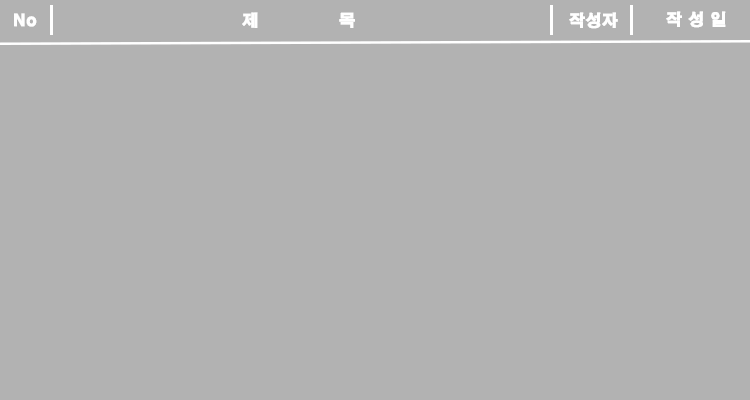
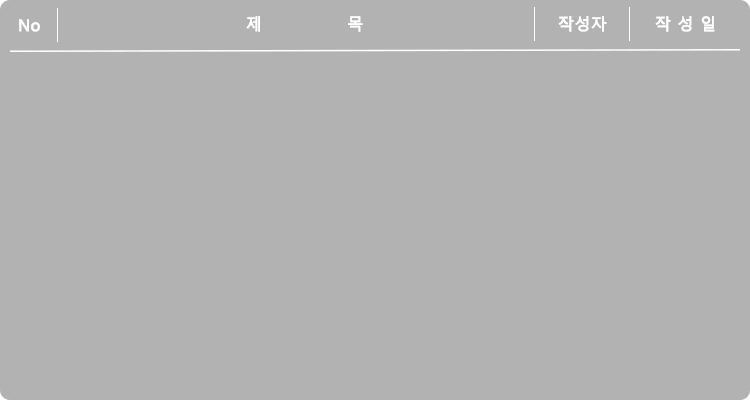
회원 게시판 리스트 이미지 적용

diff --git a/FirstProject-CodeCloud/src/view/membermainview/QAbbsList.java b/FirstProject-CodeCloud/src/view/membermainview/QAbbsList.java
@@ -2,6 +2,7 @@ package view.membermainview;
 
 import java.awt.Color;
 import java.awt.Dimension;
+import java.awt.Font;
 import java.awt.event.ActionEvent;
 import java.awt.event.ActionListener;
 import java.awt.event.MouseEvent;
@@ -68,8 +69,11 @@ public class QAbbsList extends JPanel implements ActionListener, WindowListener,
 		for (int i = 0; i < list.size(); i++) {
 			QAbbsDto dto = list.get(i);
 
+			
 			rowData[i][0] = dto.getSeq();// 번호
-
+			if(dto.getRef()!=0){
+				rowData[i][0]="";
+			}
 
 			if (dto.getDel() == 1)
 				rowData[i][1] = "  *************이 글은 삭제되었습니다*************";
@@ -83,8 +87,9 @@ public class QAbbsList extends JPanel implements ActionListener, WindowListener,
 	
 				if (rowData[i][1].equals(""))
 					rowData[i][1] ="  " + list.get(i).getTitle();
-				else
-					rowData[i][1] += "[답변] " + list.get(i).getTitle();
+				else 
+					rowData[i][1] += "┗ [답변] " + list.get(i).getTitle();
+				
 			}
 
 			rowData[i][2] = dto.getNick();
@@ -141,18 +146,21 @@ public class QAbbsList extends JPanel implements ActionListener, WindowListener,
 		celAlignCenter.setHorizontalAlignment(JLabel.CENTER);
 		celAlignCenter.setOpaque(false);
 		// 컬럼의 넓이 설정
-		jTable.getColumnModel().getColumn(0).setMaxWidth(50);
+		jTable.getColumnModel().getColumn(0).setMaxWidth(53);
 		jTable.getColumnModel().getColumn(0).setCellRenderer(celAlignCenter);
-		jTable.getColumnModel().getColumn(1).setMaxWidth(500);
-		jTable.getColumnModel().getColumn(2).setMaxWidth(80);
+		jTable.getColumnModel().getColumn(1).setMaxWidth(477);
+		jTable.getColumnModel().getColumn(2).setMaxWidth(95);
 		jTable.getColumnModel().getColumn(2).setCellRenderer(celAlignCenter);
-		jTable.getColumnModel().getColumn(3).setMaxWidth(120);
+		jTable.getColumnModel().getColumn(3).setMaxWidth(115);
 		jTable.getColumnModel().getColumn(3).setCellRenderer(celAlignCenter);
 		
 		jTable.setOpaque(false);
 		jTable.setForeground(Color.WHITE);
 		jTable.setTableHeader(null);
 		jTable.setShowGrid(false);
+		jTable.setRowHeight(25);
+		Font tableFont = new Font("맑은고딕", Font.PLAIN, 15);
+		jTable.setFont(tableFont);
 		
 		//스크롤바 0으로 줄여서 안보이게하는 코드
 		jScrPane = new JScrollPane(jTable, ScrollPaneConstants.VERTICAL_SCROLLBAR_ALWAYS, ScrollPaneConstants.HORIZONTAL_SCROLLBAR_NEVER); 
@@ -172,7 +180,7 @@ public class QAbbsList extends JPanel implements ActionListener, WindowListener,
 		bbs_backgorund.setIcon(bbs_back_Img);
 		bbs_backgorund.setBounds(50, 150, 750, 400);
 		///////////////////////////////////////////////////
-		jScrPane.setBounds(50, 196, 750, 354);
+		jScrPane.setBounds(55, 205, 740, 340);
 		
 
 		add(jScrPane);
@@ -219,13 +227,19 @@ public class QAbbsList extends JPanel implements ActionListener, WindowListener,
 	public void setList(List<QAbbsDto> list) {
 		rowData = new Object[list.size()][4];
 
-		int n = 1;
 		for (int i = 0; i < list.size(); i++) {
 			QAbbsDto dto = list.get(i);
-			rowData[i][0] = dto.getSeq();
+
+			
+			rowData[i][0] = dto.getSeq();// 번호
+			if(dto.getRef()!=0){
+				rowData[i][0]="";
+			}
+
 			if (dto.getDel() == 1)
-				rowData[i][1] = "*************이 글은 삭제되었습니다*************";
+				rowData[i][1] = "  *************이 글은 삭제되었습니다*************";
 			else {
+
 				// 댓글 작업 부분
 				rowData[i][1] = "";
 				for (int j = 0; j < list.get(i).getDept(); j++) {
@@ -233,11 +247,13 @@ public class QAbbsList extends JPanel implements ActionListener, WindowListener,
 				}
 	
 				if (rowData[i][1].equals(""))
-					rowData[i][1] = list.get(i).getTitle();
-				else
+					rowData[i][1] ="  " + list.get(i).getTitle();
+				else 
 					rowData[i][1] += "┗ [답변] " + list.get(i).getTitle();
-			}			rowData[i][2] = dto.getNick();
+				
+			}
 
+			rowData[i][2] = dto.getNick();
 
 			Calendar cal = Calendar.getInstance();
 
@@ -257,24 +273,31 @@ public class QAbbsList extends JPanel implements ActionListener, WindowListener,
 				String beforeDate = list.get(i).getWdate().substring(0, 10);
 				rowData[i][3] = beforeDate;
 			}
-
 		}
 		////////////////////////////// table 형태 유지
 		model.setDataVector(rowData, columnNames);
 
-		// 컬럼의 넓이 설정
-		jTable.getColumnModel().getColumn(0).setMaxWidth(50);
-		jTable.getColumnModel().getColumn(1).setMaxWidth(600);
-		jTable.getColumnModel().getColumn(2).setMaxWidth(60);
-		jTable.getColumnModel().getColumn(3).setMaxWidth(150);
-
-
+		// 테이블안에 컬럼을 위치설정
 		DefaultTableCellRenderer celAlignCenter = new DefaultTableCellRenderer();
 		celAlignCenter.setHorizontalAlignment(JLabel.CENTER);
-		jTable.getColumn("번호").setCellRenderer(celAlignCenter);
-		jTable.getColumn("작성일").setCellRenderer(celAlignCenter);
-		//////////////////////////////
+		celAlignCenter.setOpaque(false);
+		// 컬럼의 넓이 설정
+		jTable.getColumnModel().getColumn(0).setMaxWidth(50);
+		jTable.getColumnModel().getColumn(0).setCellRenderer(celAlignCenter);
+		jTable.getColumnModel().getColumn(1).setMaxWidth(500);
+		jTable.getColumnModel().getColumn(2).setMaxWidth(70);
+		jTable.getColumnModel().getColumn(2).setCellRenderer(celAlignCenter);
+		jTable.getColumnModel().getColumn(3).setMaxWidth(140);
+		jTable.getColumnModel().getColumn(3).setCellRenderer(celAlignCenter);
 
+		jTable.setOpaque(false);
+		jTable.setForeground(Color.WHITE);
+		jTable.setTableHeader(null);
+		jTable.setShowGrid(false);
+		jTable.setRowHeight(25);
+		Font tableFont = new Font("맑은고딕", Font.PLAIN, 18);
+		jTable.setFont(tableFont);
+		
 		jTable.setModel(model);
 	}
 

diff --git a/FirstProject-CodeCloud/src/view/membermainview/ShareList.java b/FirstProject-CodeCloud/src/view/membermainview/ShareList.java
@@ -2,6 +2,7 @@ package view.membermainview;
 
 import java.awt.Color;
 import java.awt.Dimension;
+import java.awt.Font;
 import java.awt.event.ActionEvent;
 import java.awt.event.MouseEvent;
 import java.awt.event.MouseListener;
@@ -9,6 +10,8 @@ import java.util.Calendar;
 import java.util.List;
 
 import javax.swing.Action;
+import javax.swing.BorderFactory;
+import javax.swing.ImageIcon;
 import javax.swing.JButton;
 import javax.swing.JComboBox;
 import javax.swing.JLabel;
@@ -79,23 +82,56 @@ public class ShareList extends JPanel implements Action, MouseListener {
 		
 		ShareListTable.addMouseListener(this);
 
+		// 테이블안에 컬럼을 위치설정
+		DefaultTableCellRenderer celAlignCenter = new DefaultTableCellRenderer();
+		celAlignCenter.setHorizontalAlignment(JLabel.CENTER);
+		celAlignCenter.setOpaque(false);
+
 		// 컬럼의 넓이 설정 //가 되고있지않음
 		ShareListTable.getColumnModel().getColumn(0).setMaxWidth(50);
+		ShareListTable.getColumnModel().getColumn(0).setCellRenderer(celAlignCenter);
 		ShareListTable.getColumnModel().getColumn(1).setMaxWidth(60);
-		ShareListTable.getColumnModel().getColumn(2).setMaxWidth(600);
-		ShareListTable.getColumnModel().getColumn(3).setMaxWidth(60);
-		ShareListTable.getColumnModel().getColumn(4).setMaxWidth(50);
-		ShareListTable.getColumnModel().getColumn(5).setMaxWidth(50);
+		ShareListTable.getColumnModel().getColumn(1).setCellRenderer(celAlignCenter);
+		ShareListTable.getColumnModel().getColumn(2).setMaxWidth(405);
+		ShareListTable.getColumnModel().getColumn(3).setMaxWidth(95);
+		ShareListTable.getColumnModel().getColumn(3).setCellRenderer(celAlignCenter);
+		ShareListTable.getColumnModel().getColumn(4).setMaxWidth(70);
+		ShareListTable.getColumnModel().getColumn(4).setCellRenderer(celAlignCenter);
+		ShareListTable.getColumnModel().getColumn(5).setMaxWidth(70);
+		ShareListTable.getColumnModel().getColumn(5).setCellRenderer(celAlignCenter);
 		ShareListTable.removeColumn(ShareListTable.getColumnModel().getColumn(6));
 
-
+		ShareListTable.setOpaque(false);
+		ShareListTable.setForeground(Color.WHITE);
+		ShareListTable.setTableHeader(null);
+		ShareListTable.setShowGrid(false);
+		ShareListTable.setRowHeight(25);
+		Font tableFont = new Font("맑은고딕", Font.PLAIN, 15);
+		ShareListTable.setFont(tableFont);
+		
 		//스크롤바 0으로 줄여서 안보이게하는 코드
 		jScrPane = new JScrollPane(ShareListTable, ScrollPaneConstants.VERTICAL_SCROLLBAR_ALWAYS, ScrollPaneConstants.HORIZONTAL_SCROLLBAR_NEVER); 
 		jScrPane.getVerticalScrollBar().setPreferredSize (new Dimension(0,0));
-						
-		jScrPane.setBounds(50, 150, 750, 400);
-		add(jScrPane);
+		jScrPane.setOpaque(false);
+		((DefaultTableCellRenderer) ShareListTable.getDefaultRenderer(Object.class)).setOpaque(false);
+		jScrPane.getViewport().setOpaque(false);
 
+		// 테두리 없애기
+		jScrPane.setBorder(BorderFactory.createCompoundBorder(null,
+							BorderFactory.createEmptyBorder(0, 0, 0, 0)));
+
+		// 코드 배경
+		ImageIcon bbs_back_Img = new ImageIcon("img/sharebbs/Sharebbs_list_background.png");
+
+		JLabel list_backgorund = new JLabel();
+		list_backgorund.setIcon(bbs_back_Img);
+		list_backgorund.setBounds(50, 150, 750, 400);
+		///////////////////////////////////////////////////
+		
+		jScrPane.setBounds(55, 205, 740, 340);
+		add(jScrPane);
+		add(list_backgorund);
+		
 		// 검색할 부분 콤보박스로 나열해줌
 		// Choice(AWT) -> JComboBox(swing)
 		String[] selects = new String[] { "전체보기", "제목", "내용", "닉네임", "언어" };

diff --git a/FirstProject-CodeCloud/src/view/membermainview/ShareDetail.java b/FirstProject-CodeCloud/src/view/membermainview/ShareDetail.java
@@ -17,6 +17,7 @@ import javax.swing.JTextArea;
 import javax.swing.JTextField;
 import javax.swing.JToggleButton;
 import javax.swing.ScrollPaneConstants;
+import javax.swing.SwingConstants;
 
 import dao.ShareDao;
 import dto.QAbbsDto;
@@ -51,6 +52,7 @@ public class ShareDetail extends JPanel implements Action {
 		
 		ShareMain=sharebbs;
 		
+		
 		//닉네임
 		Font nickFont = new Font("굴림",Font.BOLD, 25);
 		nickText = new JLabel();
@@ -60,7 +62,6 @@ public class ShareDetail extends JPanel implements Action {
 		nickText.setText(dto.getNick());
 		
 		//타이틀
-
 		Font titleFont = new Font("굴림",Font.BOLD, 40);
 		titleText = new JLabel();
 		titleText.setFont(titleFont);
@@ -68,6 +69,12 @@ public class ShareDetail extends JPanel implements Action {
 		titleText.setBounds(65, 100, 310, 50);
 		titleText.setText(dto.getTitle());
 		
+		JLabel langText = new JLabel(dto.getLang(), SwingConstants.CENTER);
+		langText.setFont(titleFont);
+		langText.setForeground(Color.WHITE);
+		langText.setBounds(650, 100, 150, 50);
+		add(langText);
+
 		postArea = new JTextArea();
 		postArea.setOpaque(false);
 		postArea.setForeground(Color.WHITE);

diff --git a/FirstProject-CodeCloud/src/view/AdminMainView.java b/FirstProject-CodeCloud/src/view/AdminMainView.java
@@ -52,7 +52,7 @@ public class AdminMainView extends JFrame implements ActionListener, MouseListen
 	private ImageIcon drag2;
 	private JButton btn_drag;
 
-	adQAbbsMain adQAMain = new adQAbbsMain();
+	//adQAbbsMain adQAMain = new adQAbbsMain();
 
 	// 채팅 부분
 	private chatPanel chatPanel;
@@ -80,7 +80,8 @@ public class AdminMainView extends JFrame implements ActionListener, MouseListen
 
 		mainPanel.add("Memberbbs", new adMemberbbsMain());
 		mainPanel.add("AdminSharebbs", new AdminSharebbs());
-		mainPanel.add("Q&Abbs", adQAMain);
+		//mainPanel.add("Q&Abbs", adQAMain);
+		mainPanel.add("Q&Abbs",new adQAbbsMain());
 		cards.show(mainPanel, "Memberbbs");
 
 		mainPanel.setOpaque(false);
@@ -171,8 +172,8 @@ public class AdminMainView extends JFrame implements ActionListener, MouseListen
 			mainPanel.add("AdminSharebbs", new AdminSharebbs());
 			cards.show(mainPanel, "AdminSharebbs");
 		} else if (select == 3) {
+			mainPanel.add("Q&Abbs",new adQAbbsMain());
 			cards.show(mainPanel, "Q&Abbs");
-			adQAMain.cards.show(adQAMain.admainPanel, "adQAbbsList");
 		}
 	}
 

diff --git a/FirstProject-CodeCloud/src/view/adminmainview/QA/adQAbbsList.java b/FirstProject-CodeCloud/src/view/adminmainview/QA/adQAbbsList.java
@@ -111,8 +111,8 @@ public class adQAbbsList extends JPanel implements MouseListener, WindowListener
 		// 컬럼의 넓이 설정
 		jTable.getColumnModel().getColumn(0).setMaxWidth(50);
 		jTable.getColumnModel().getColumn(0).setCellRenderer(celAlignCenter);
-		jTable.getColumnModel().getColumn(1).setMaxWidth(500);
-		jTable.getColumnModel().getColumn(2).setMaxWidth(200);
+		jTable.getColumnModel().getColumn(1).setMaxWidth(60);
+		jTable.getColumnModel().getColumn(2).setMaxWidth(70);
 		jTable.getColumnModel().getColumn(2).setCellRenderer(celAlignCenter);
 		jTable.getColumnModel().getColumn(3).setMaxWidth(200);
 		jTable.getColumnModel().getColumn(3).setCellRenderer(celAlignCenter);
